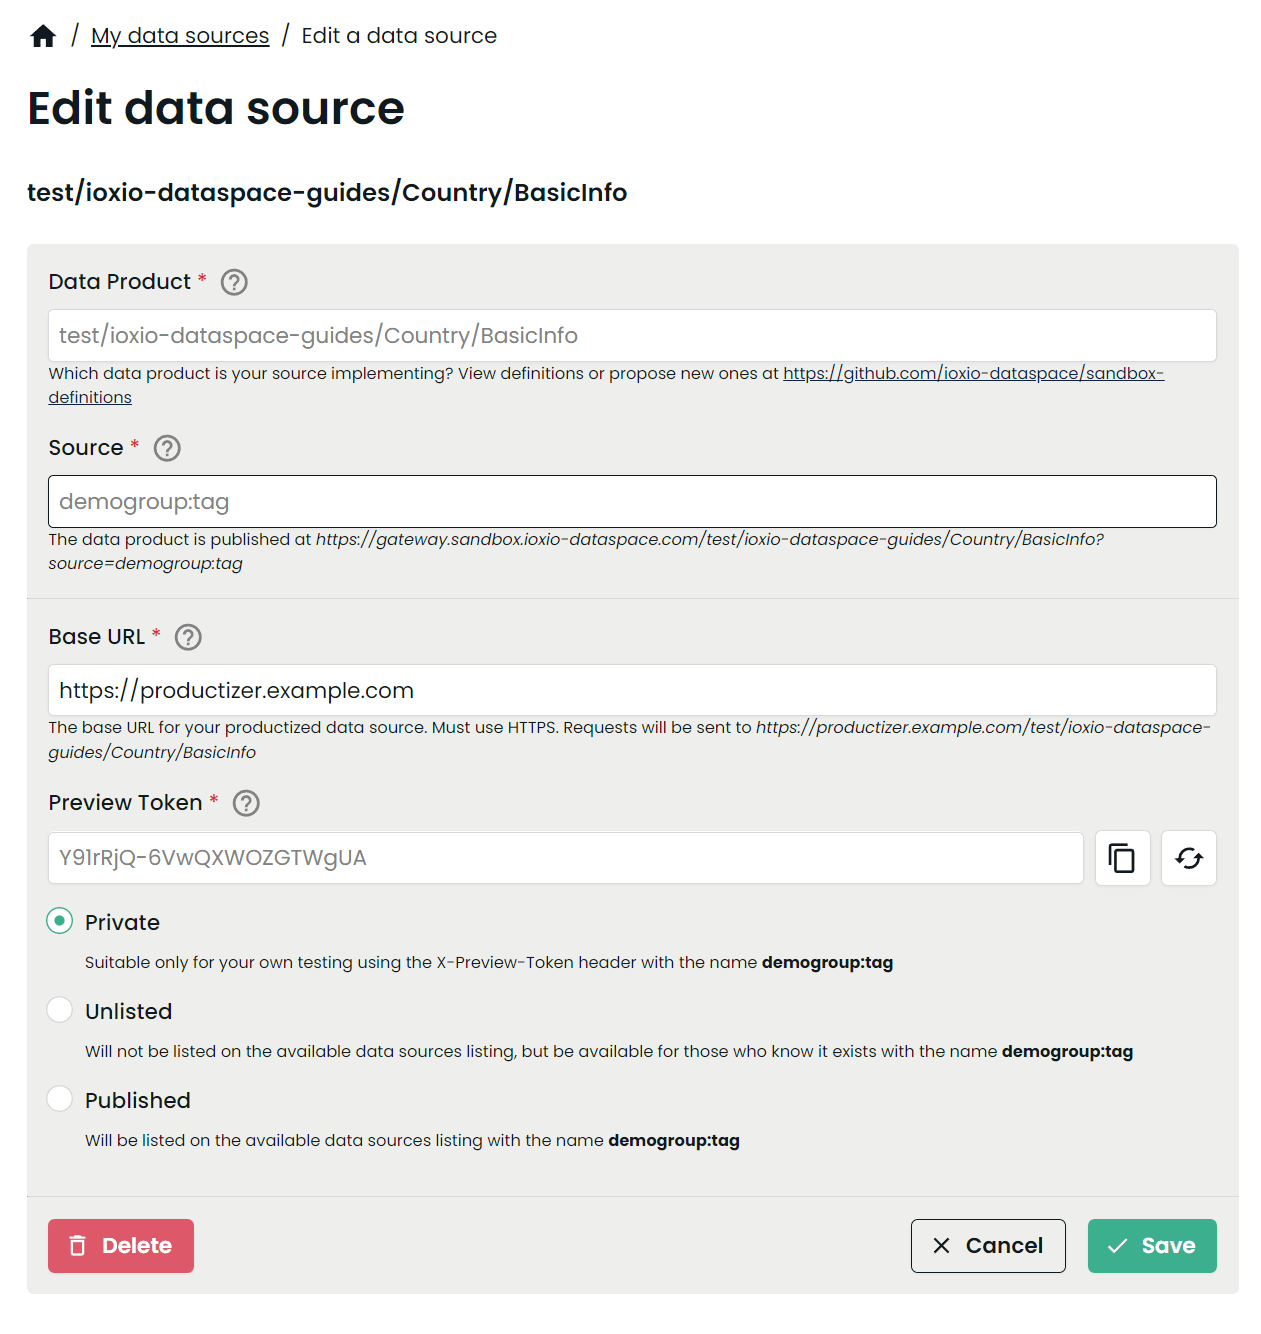
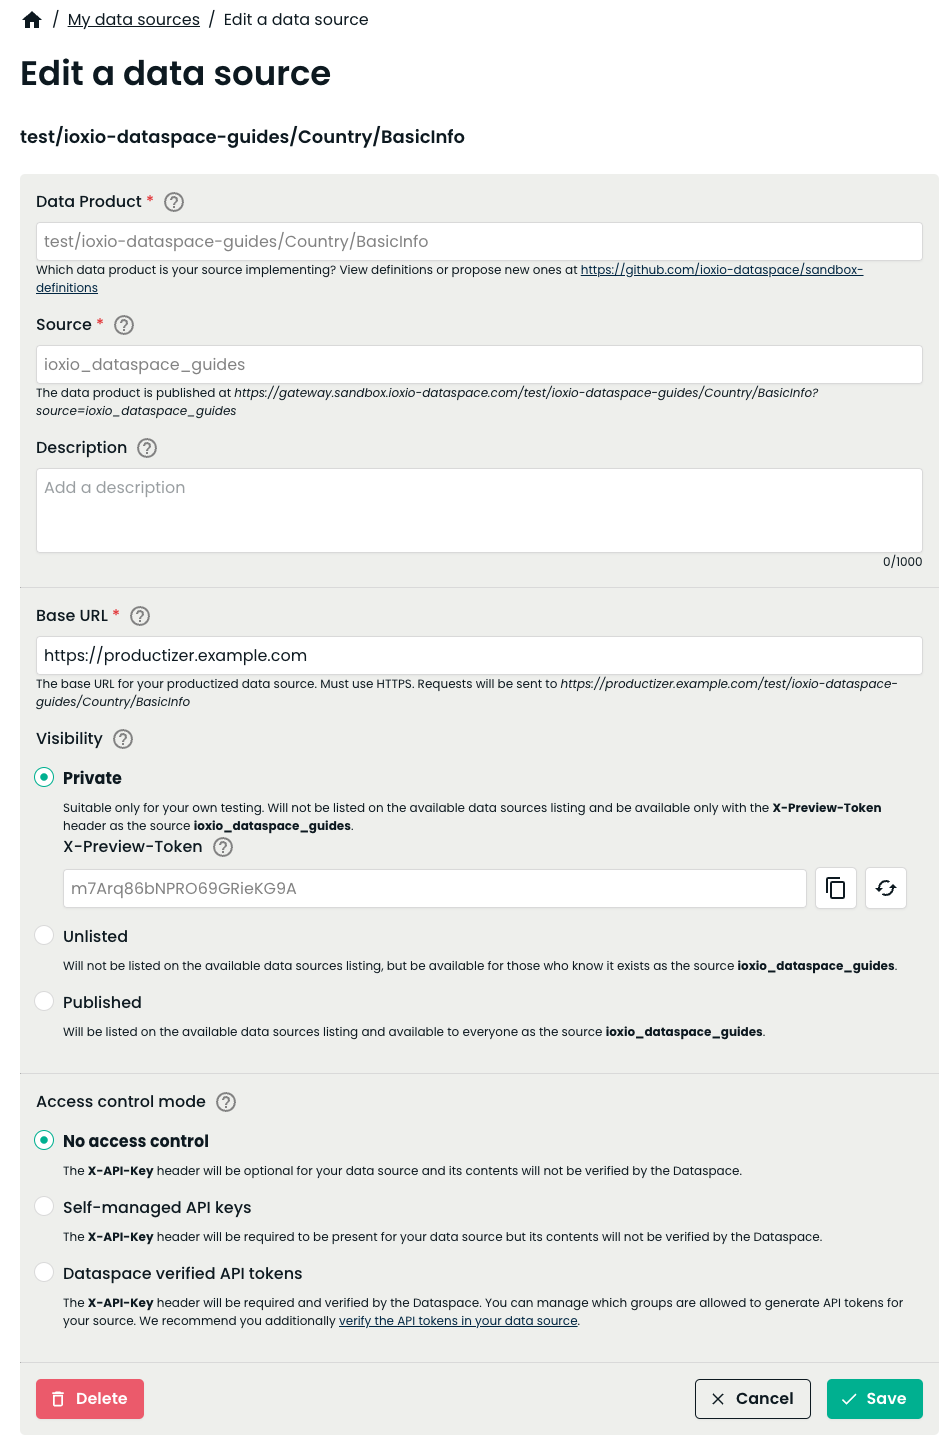
Add information about access control mode (#18)
Add information about access control mode

---------

diff --git a/src/routes/guides/building-a-data-source/+page.svelte b/src/routes/guides/building-a-data-source/+page.svelte
@@ -8,7 +8,7 @@
   import TableOfContents from "$lib/components/TableOfContents.svelte"
 
   import type { PageData } from "./$types"
-  import { GUIDES } from "../urls"
+  import { GUIDES, NOTION_GUIDES } from "../urls"
   import GuideImage from "$lib/components/GuideImage.svelte"
   import A from "$lib/components/A.svelte"
 
@@ -352,8 +352,8 @@ async def data_product(params: BasicCountryInfoRequest):
   </p>
   <h3>Add your data source</h3>
   <p>
-    Use the menu to navigate to My data sources. Press the + ADD A DATASOURCE button. In the Data
-    product definition, pick the definition you used for your productizer. Pick one of your groups
+    Use the menu to navigate to My data sources. Press the <em>+ Add a data source</em> button. In the
+    Data product definition, pick the definition you used for your productizer. Pick one of your groups
     in the dropdown for groups.
   </p>
   <p>
@@ -362,23 +362,64 @@ async def data_product(params: BasicCountryInfoRequest):
     this for your first data source. In the Base URL enter the base URL at which your deployment is
     available. The help text shows where the API endpoint is expected to be available. The Base URL
     will not be displayed to other users and is only used by the product gateway to connect to the
-    productizer. All other applications must connect through the product gateway. For the purpose of
-    this tutorial let's select "private" for the visibility options. The filled in form would look
-    like this:
+    productizer. All other applications must connect through the product gateway.
+  </p>
+  <p>There's three options for the visibility:</p>
+  <ul>
+    <li>
+      <b>Private</b> - The data source will be hidden from other users on the dataspace and
+      protected by an additional <em>X-Preview-Token</em> header. Should be used when you want to test
+      your own data source before making it available to others.
+    </li>
+    <li>
+      <b>Unlisted</b> - The data source can be accessed by anyone who knows it exists, but will not be
+      published in any listing of data sources on the dataspace.
+    </li>
+    <li>
+      <b>Published</b> - The data source will be published on the dataspace for others to see.
+    </li>
+  </ul>
+  <p>
+    The access to the data source can be controlled by different options (all options might not be
+    available on all dataspaces):
+  </p>
+  <ul>
+    <li>
+      <b>No access control</b> - The dataspace will allow anyone to request data from the data source.
+    </li>
+    <li>
+      <b>Self-managed API keys</b> - <em>X-API-Key</em> header will be required to be present, but its
+      contents will not be verified by the dataspace.
+    </li>
+    <li>
+      <b>Dataspace verified API tokens</b> - The <em>X-API-Key</em> header will be required and
+      verified by the dataspace. Once you save the data source with this setting you can manage
+      which groups are allowed to access the data source. The members of the allowed groups will
+      find the data source and instructions on generating valid API-tokens for this header in the
+      <em>Access control keys</em>
+      section of dataspace. The <A href={NOTION_GUIDES.VERIFYING_API_TOKENS.href}
+        >{NOTION_GUIDES.VERIFYING_API_TOKENS.title}</A
+      > guide explains how you can verify the tokens in your data source and know which group was requesting
+      the data.
+    </li>
+  </ul>
+  <p>
+    For this tutorial, let's for simplicity choose <em>Private</em> for the visibility and
+    <em>No access control</em>. The filled in form would look like this:
   </p>
   <GuideImage img={images.CREATE_NEW_DS} />
-  <p>Finally press the CREATE button to create the data source.</p>
+  <p>Finally press the <em>Create</em> button to create the data source.</p>
   <SectionTitle title="Test your data source" />
   <p>
     You should now be able to test your own data source by querying it through the product gateway.
-    From the list of your data sources, press EDIT next to the data source you just created. The
-    developer portal will show you the address at which you can query your own data source as well
-    as the <em>X-Preview-Token</em> necessary to use a data source until it has been published.
+    Once you've saved the data source, you should see the <em>X-Preview-Token</em>, which is
+    necessary to use as long as it's marked as private. You can also below the Source field see the
+    URL at which you can make requests to the data source.
   </p>
   <GuideImage img={images.EDIT_DS} />
   <p>
     You can for example use the cURL command line tool to query it like this (make sure the replace
-    the url and <em>X-Preview-Token</em> to the one shown to you in the developer portal and change the
+    the URL and <em>X-Preview-Token</em> to the one shown to you in the developer portal and change the
     data to match the expected payload of your own data source):
   </p>
   <Code lang={python}>
@@ -387,7 +428,7 @@ async def data_product(params: BasicCountryInfoRequest):
   --request POST \\
   --url 'https://gateway.sandbox.ioxio-dataspace.com/test/ioxio-dataspace-guides/Country/BasicInfo?source=ioxio_dataspace_guides' \\
   --header 'Content-Type: application/json' \\
-  --header 'X-Preview-Token: wgyhTXDAMa3uBwLIziBnpQ' \\
+  --header 'X-Preview-Token: m7Arq86bNPRO69GRieKG9A' \\
   --data '{"code": "FI"}'
 HTTP/2 200
 content-type: application/json
@@ -406,9 +447,9 @@ content-length: 130
 `}
   </Code>
   <p>
-    Note: As long as your datasource is not published you will need to use the
+    Note: As long as your datasource remains private you will need to use the
     <em>X-Preview-Token</em>
-    header, once the datasource is published the header should be left out.
+    header, once the datasource is switched to published or unlisted the header should be left out.
   </p>
   <p>
     In case you make a request that causes an unexpected response to be generated by the
@@ -424,8 +465,8 @@ content-length: 130
   --request POST \\
   --url 'https://gateway.sandbox.ioxio-dataspace.com/test/ioxio-dataspace-guides/Country/BasicInfo?source=ioxio_dataspace_guides' \\
   --header 'Content-Type: application/json' \\
-  --header 'X-Preview-Token: wgyhTXDAMa3uBwLIziBnpQ' \\
-  --data '{"code": "ZZ"}'
+  --header 'X-Preview-Token: m7Arq86bNPRO69GRieKG9A' \\
+  --data '{"code": "XYZ"}'
 HTTP/2 502
 content-type: application/json
 x-frame-options: DENY
@@ -445,10 +486,10 @@ content-length: 95
   <SectionTitle title="Publish the data source" />
   <p>
     When you've verified the data source works as intended you can publish the data source by
-    selecting it in the list, pressing the EDIT button and ticking the Published checkbox and press
-    the UPDATE button to save the changes. When it's published, it will be listed to all users in
-    the Available data sources section and it will no longer require an <em>X-Preview-Token</em> header
-    to be queried.
+    selecting it in the list of your data sources, pressing the <em>Edit</em> button and switching
+    the visibility setting to Published and press the Save button. When it's published, it will be
+    listed to all users in the Available data sources section and it will no longer require an
+    <em>X-Preview-Token</em> header to be queried.
   </p>
   <SectionTitle title="Next steps" />
   <p>
@@ -465,15 +506,10 @@ content-length: 95
     <em>Published</em>.
   </p>
   <p>
-    You might want to clean up by removing the old data source definition by submitting a pull
-    request to remove it as well as delete your old data source in the developer portal. Please note
+    You might want to clean up by removing your old data source in the developer portal, and
+    deleting the old data source definition by submitting a pull request to remove it. Please note
     that this will make it impossible to query it, so make sure to update any applications that
-    might be using it before deleting either one.
-  </p>
-  <p>
-    Due to this danger the deletion of the data source is slightly hard to reach. Open My data
-    sources page in the developer portal and press OPEN next to the data source to reveal the EDIT
-    button. Press it to go to the edit view, where you can press the DELETE button. You will still
-    be prompted to confirm the deletion.
+    might be using it before deleting either one. Due to this, the Delete button is only possible to
+    reach through the Edit view of the data source and requires an extra confirmation.
   </p>
 </TableOfContents>

diff --git a/src/routes/guides/urls.ts b/src/routes/guides/urls.ts
@@ -51,3 +51,10 @@ export const GUIDES = {
     cardImage: GuidesIcon,
   },
 }
+
+export const NOTION_GUIDES = {
+  VERIFYING_API_TOKENS: {
+    title: "Verifying API tokens",
+    href: "https://ioxio.notion.site/Verifying-API-tokens-1528e3ae865b804c9f2dd354b143c743",
+  },
+}
